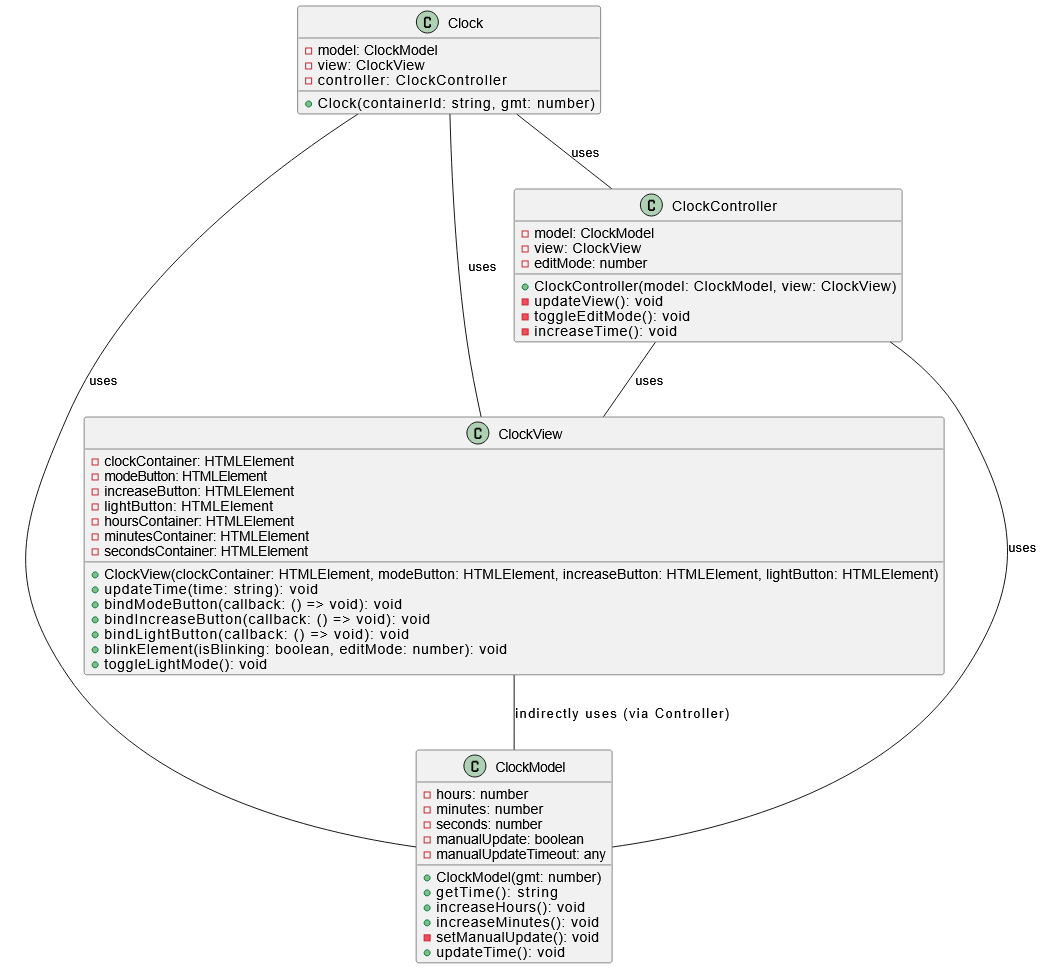
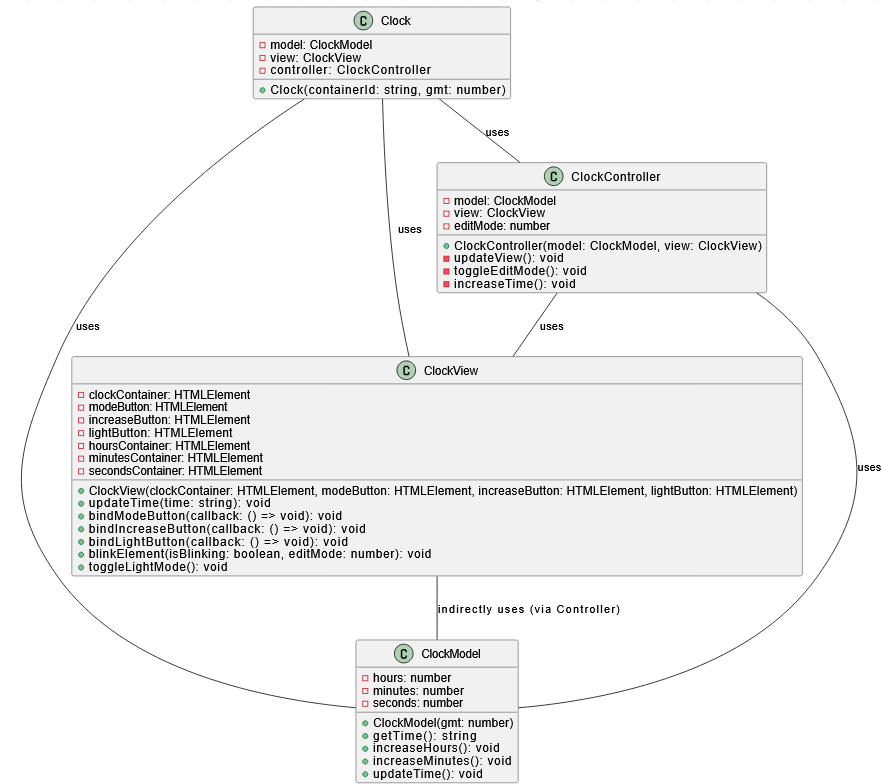
I was planning display uml and sac useless value, so I removed It

diff --git a/src/models/ClockModel.ts b/src/models/ClockModel.ts
@@ -4,12 +4,18 @@ export class ClockModel {
     private hours: number;
     private minutes: number;
     private seconds: number;
-    private manualUpdate: boolean = false;
-    private manualUpdateTimeout: any;
 
-    constructor(gmt : number = 0) {
+    constructor(gmt: number = 0) {
         const now = new Date();
-        const hours = now.getHours() + gmt;
+        let hours = now.getHours() + gmt;
+
+        // Handle cases where GMT offset makes hours negative or greater than 23
+        if (hours < 0) {
+            hours = 24 + hours;
+        } else if (hours > 23) {
+            hours = hours % 24;
+        }
+
         this.hours = hours;
         this.minutes = now.getMinutes();
         this.seconds = now.getSeconds();
@@ -24,15 +30,13 @@ export class ClockModel {
         return `${formatTime(this.hours)}:${formatTime(this.minutes)}:${formatTime(this.seconds)}`;
     }
 
-
     /**
      * Increment the hours by one, wrapping around to 0 after 23.
      */
     increaseHours(): void {
         this.hours = (this.hours + 1) % 24;
-        this.setManualUpdate();
     }
-
+    
     /**
      * Increment the minutes by one, wrapping around to 0 after 59.
      * If minutes roll over, it will increment the hours.
@@ -42,19 +46,6 @@ export class ClockModel {
         if (this.minutes === 0) {
             this.increaseHours();
         }
-        this.setManualUpdate();
-    }
-
-    /**
-     * Marks the clock as manually updated and resets the manual update flag
-     * after a short delay (1 second).
-     */
-    private setManualUpdate() {
-        this.manualUpdate = true;
-        clearTimeout(this.manualUpdateTimeout);
-        this.manualUpdateTimeout = setTimeout(() => {
-            this.manualUpdate = false;
-        }, 1); // Allow the update flag to reset after 1 millisecond
     }
 
     /**
@@ -62,13 +53,9 @@ export class ClockModel {
      * This method should be called every second manually from outside.
      */
     updateTime(): void {
-        if (!this.manualUpdate) {
-            this.seconds = (this.seconds + 1) % 60;
-
-            if (this.seconds === 0) {
-                // If seconds reach 00, increment minutes
-                this.increaseMinutes();
-            }
+        this.seconds = (this.seconds + 1) % 60;
+        if (this.seconds === 0) {
+            this.increaseMinutes();
         }
     }
 }
